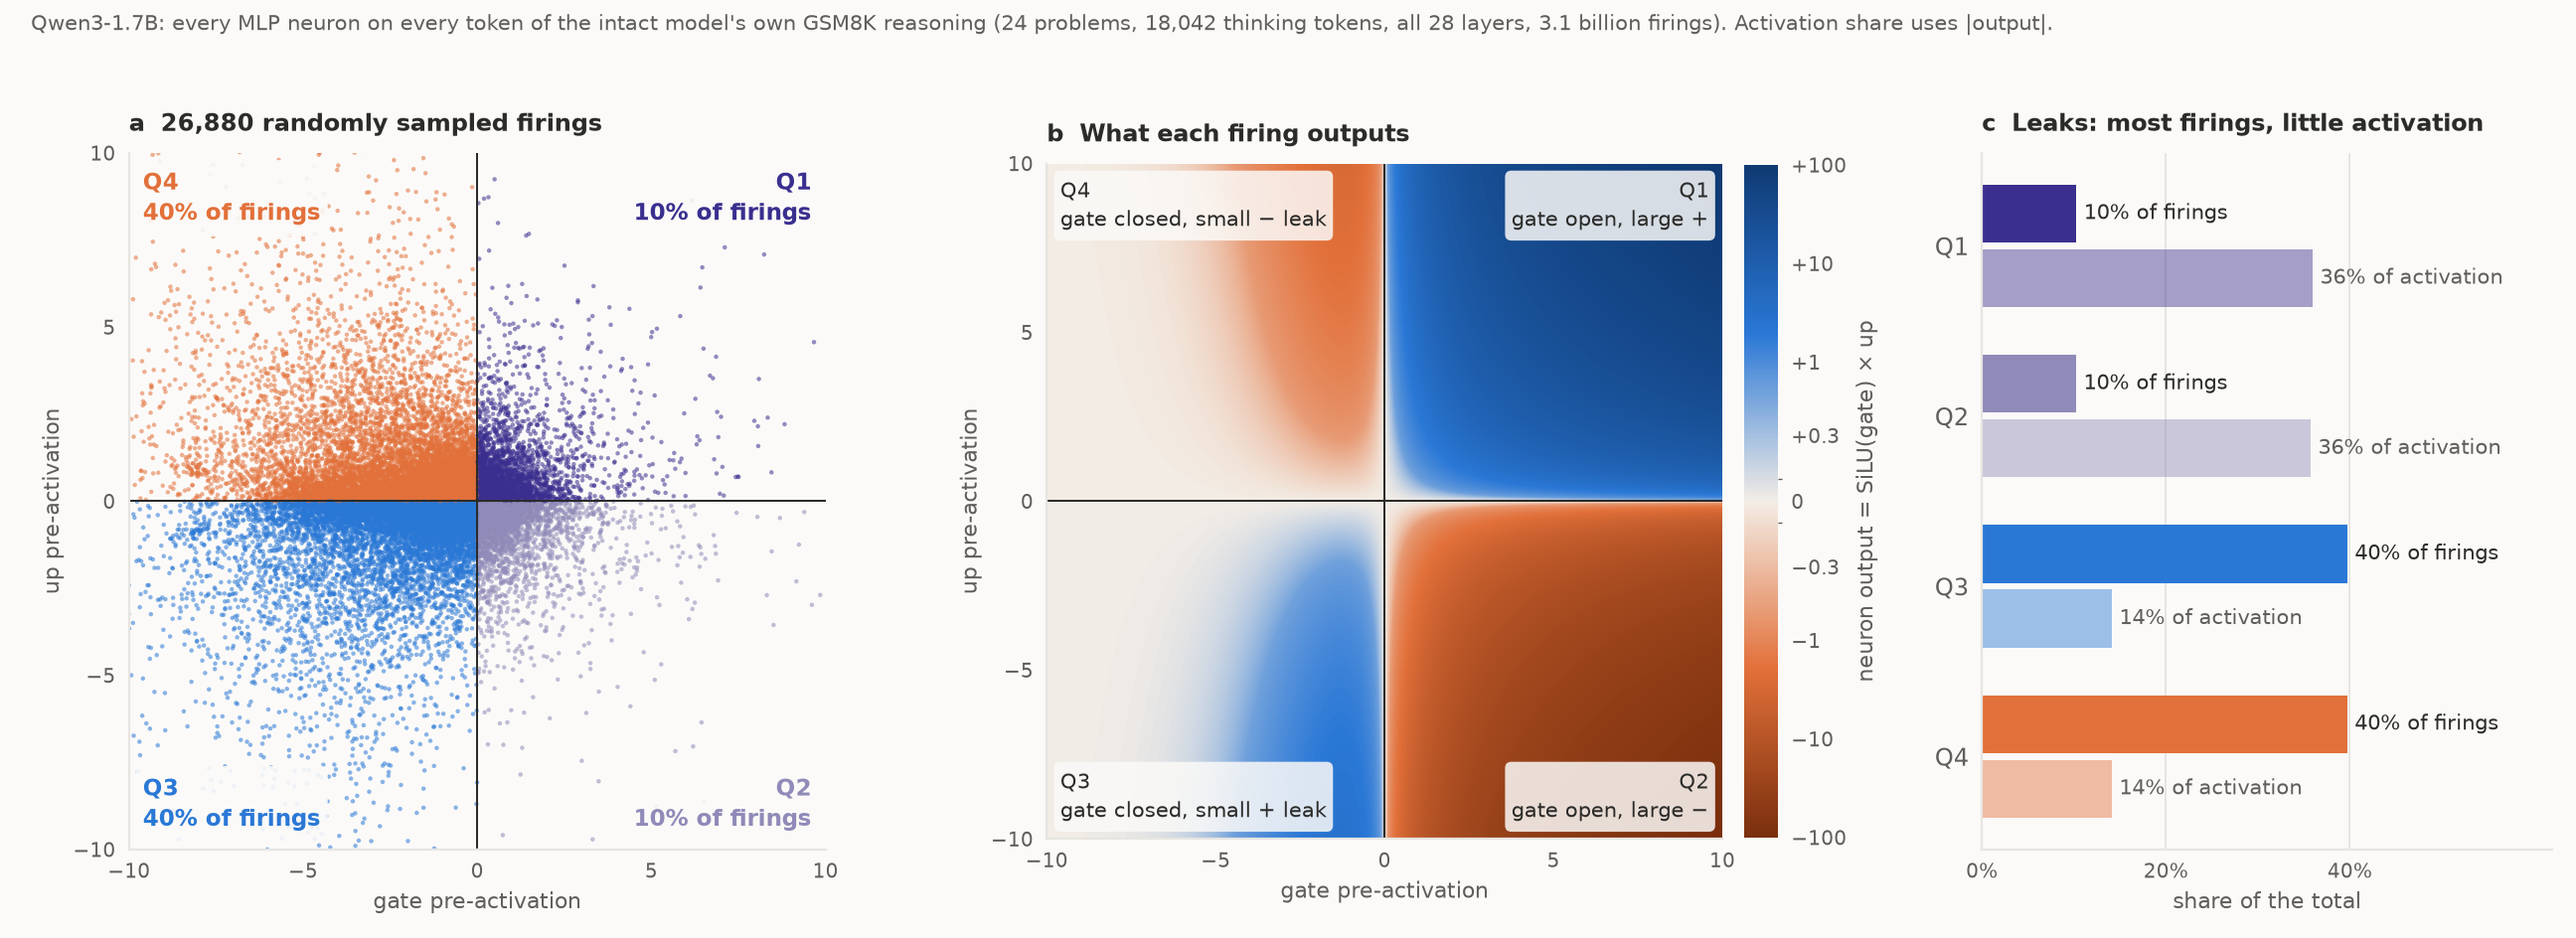
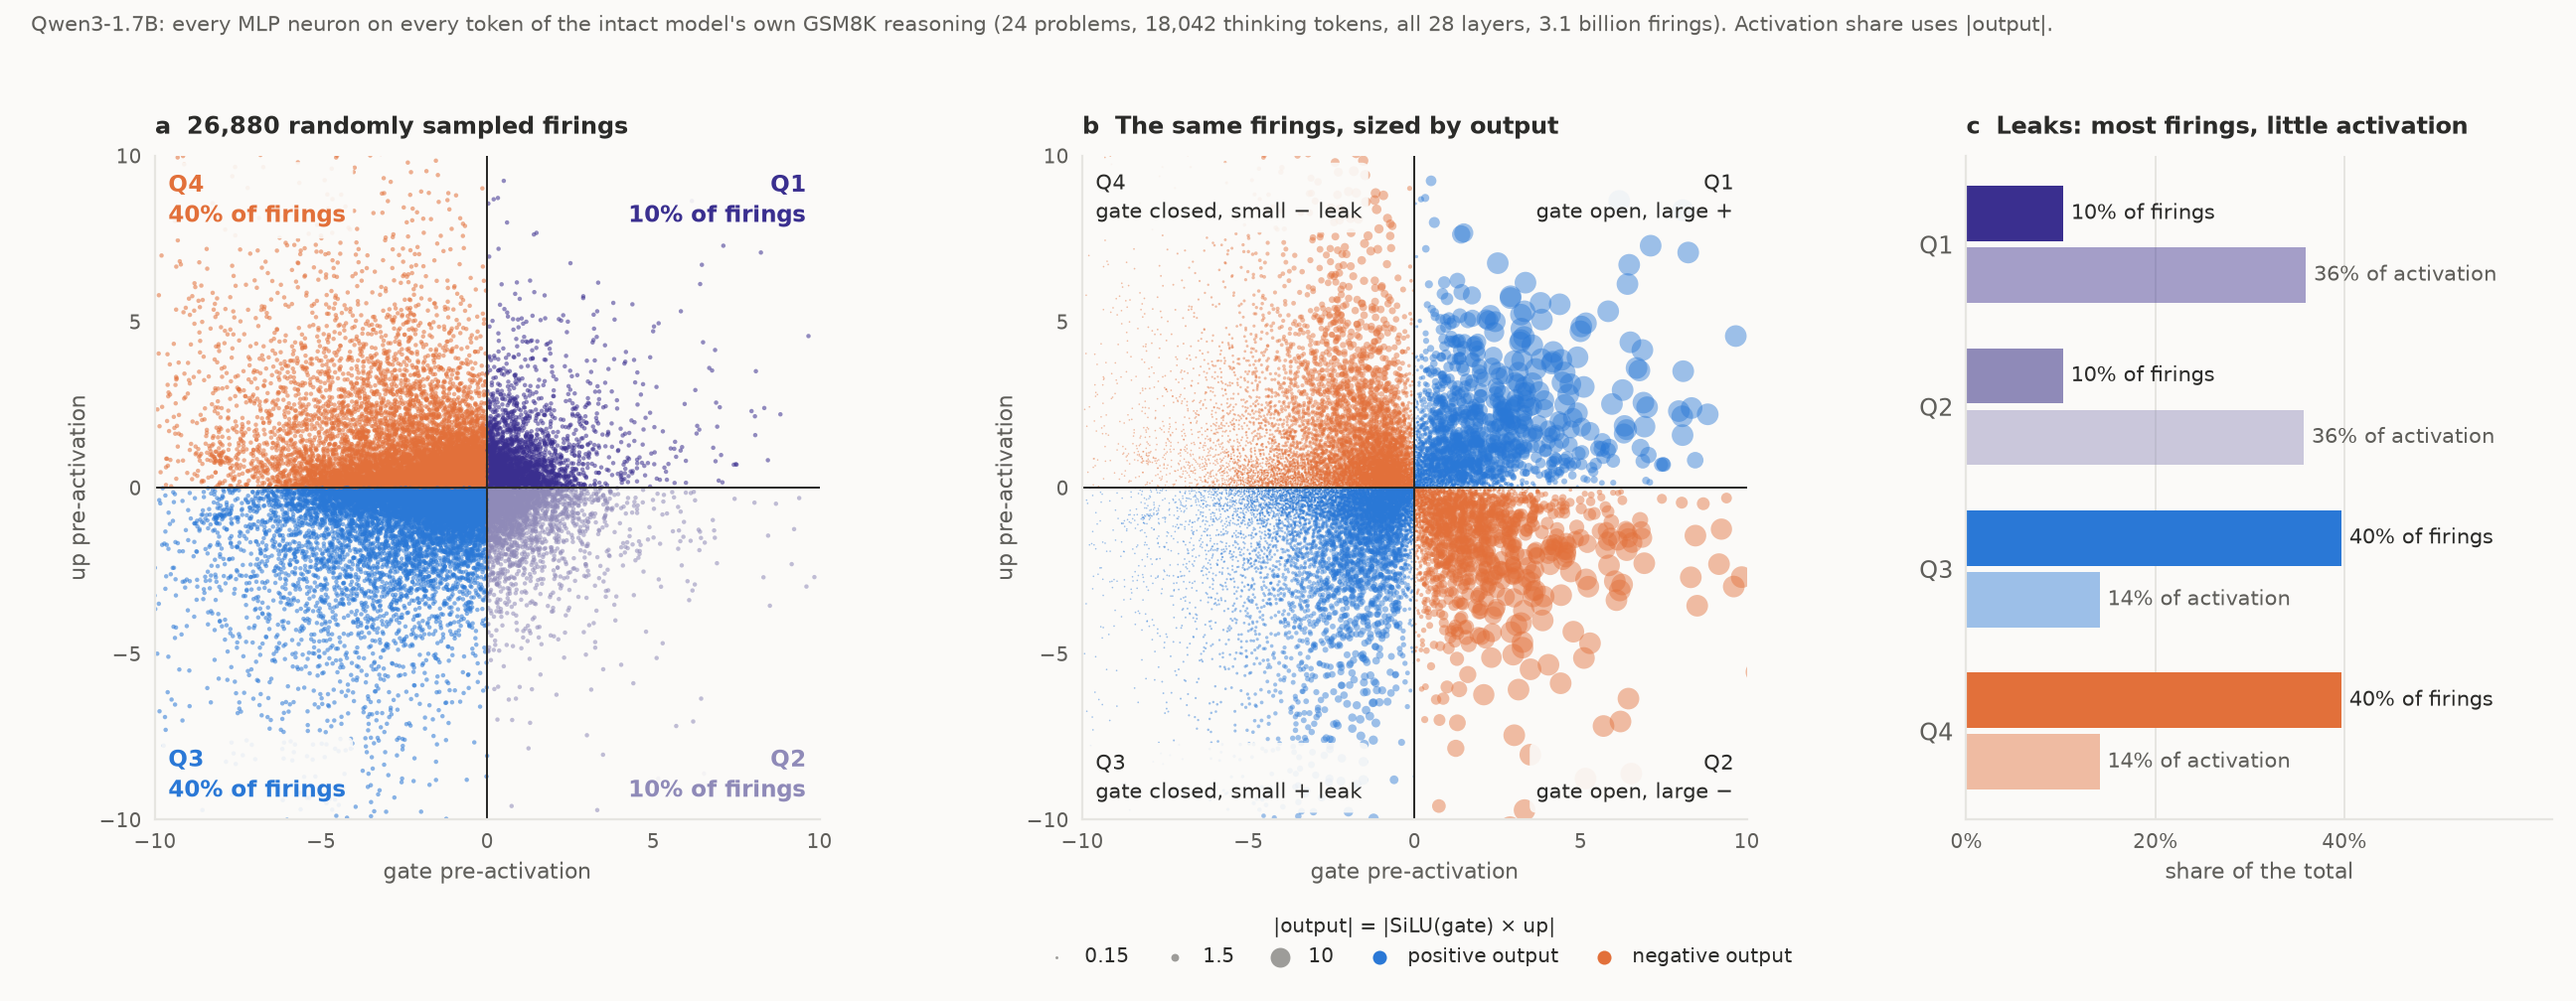
fig9: panel b as dots sized by output instead of a heatmap

diff --git a/src/figures/fig_quadrant_map.py b/src/figures/fig_quadrant_map.py
@@ -6,8 +6,8 @@ and up. Its output is act_fn(gate) * up. The signs of gate and up put the
 firing in one of four quadrants (Q1..Q4).
 
 Panel a: a random sample of firings, one dot each, coloured by quadrant.
-Panel b: the output each point of the plane produces, on a scale that keeps
-         the small leaks visible.
+Panel b: the same sampled firings, dot area proportional to |output|,
+         colour by the sign of the output.
 Panel c: each quadrant's share of firings and of total |activation|.
 
 The text is the intact model's own GSM8K reasoning (prompt + thinking block of
@@ -130,7 +130,7 @@ CORNER = {"q1": (VIEW - PAD, VIEW - PAD, "right", "top"), "q2": (VIEW - PAD, -VI
 NOTE = {"q1": "gate open, large +", "q2": "gate open, large −", "q3": "gate closed, small + leak",
         "q4": "gate closed, small − leak"}
 
-fig, (a1, a2, a3) = plt.subplots(1, 3, figsize=(16.2, 5.9), gridspec_kw={"width_ratios": [1, 1, 0.78]})
+fig, (a1, a2, a3) = plt.subplots(1, 3, figsize=(16.2, 6.3), gridspec_kw={"width_ratios": [1, 1, 0.78]})
 
 cols = {"q1": "#3a2f8f", "q2": "#8f8ab8", "q3": style.Q3_COL, "q4": style.Q4_COL}
 sg, su = d["sample_g"], d["sample_u"]
@@ -146,20 +146,29 @@ for k, q in enumerate(QUADS):
             fontweight="bold", linespacing=1.35, zorder=4,
             bbox=dict(boxstyle="round,pad=0.3", fc=style.SURFACE, ec="none", alpha=0.9))
 
-axis = np.linspace(-VIEW, VIEW, 801)
-G, U = np.meshgrid(axis, axis)
 assert "SiLU" in str(d["act_name"])
-out = G / (1 + np.exp(-G)) * U  # SiLU(gate) * up
-im2 = a2.imshow(out, origin="lower", extent=(-VIEW, VIEW, -VIEW, VIEW), cmap=diverge,
-                norm=SymLogNorm(linthresh=0.5, vmin=-100, vmax=100), aspect="equal")
-cb2 = fig.colorbar(im2, ax=a2, fraction=0.046, pad=0.03, ticks=[-100, -10, -1, -0.3, 0, 0.3, 1, 10, 100])
-cb2.ax.set_yticklabels(["−100", "−10", "−1", "−0.3", "0", "+0.3", "+1", "+10", "+100"])
-cb2.set_label("neuron output = SiLU(gate) × up"); cb2.outline.set_visible(False)
-a2.set_title("b  What each firing outputs")
+so = sg / (1 + np.exp(-sg)) * su  # each sampled firing's output, SiLU(gate) * up
+SIZE_PER_UNIT, SIZE_MIN, OUT_CAP = 8.0, 0.5, 12.0  # dot AREA is proportional to |output|, capped at OUT_CAP
+
+
+def dot_size(v):
+    return SIZE_MIN + SIZE_PER_UNIT * np.minimum(np.abs(v), OUT_CAP)
+
+
+big_first = np.argsort(-np.abs(so))  # draw large dots first so the small leaks stay visible on top
+a2.scatter(sg[big_first], su[big_first], s=dot_size(so[big_first]),
+           c=np.where(so[big_first] > 0, style.Q3_COL, style.Q4_COL), alpha=0.45, linewidths=0, zorder=2, rasterized=True)
+a2.set_aspect("equal")
+a2.set_title("b  The same firings, sized by output")
 for q in QUADS:
     x, y, ha, va = CORNER[q]
-    a2.text(x, y, f"{q.upper()}\n{NOTE[q]}", ha=ha, va=va, fontsize=9.6, color=style.INK, linespacing=1.35,
-            bbox=dict(boxstyle="round,pad=0.3", fc=style.SURFACE, ec="none", alpha=0.85))
+    a2.text(x, y, f"{q.upper()}\n{NOTE[q]}", ha=ha, va=va, fontsize=9.6, color=style.INK, linespacing=1.35, zorder=4,
+            bbox=dict(boxstyle="round,pad=0.3", fc=style.SURFACE, ec="none", alpha=0.9))
+handles = [plt.scatter([], [], s=dot_size(v), color=style.INK2, alpha=0.6, linewidths=0, label=f"{v:g}") for v in (0.15, 1.5, 10)]
+handles += [plt.scatter([], [], s=40, color=c, linewidths=0, label=l)
+            for c, l in ((style.Q3_COL, "positive output"), (style.Q4_COL, "negative output"))]
+a2.legend(handles=handles, title="|output| = |SiLU(gate) × up|", loc="upper center", bbox_to_anchor=(0.5, -0.12),
+          ncol=5, columnspacing=1.3, handletextpad=0.4, title_fontsize=9)
 for ax in (a1, a2):
     ax.axhline(0, color=style.INK, lw=0.9); ax.axvline(0, color=style.INK, lw=0.9)
     ax.set_xlim(-VIEW, VIEW); ax.set_ylim(-VIEW, VIEW); ax.grid(False)
@@ -182,7 +191,7 @@ fig.suptitle(f"{args.model.split('/')[-1]}: every MLP neuron on every token of t
              f"({int(d['n_traces'])} problems, {int(d['n_tokens']):,} thinking tokens, all {counts.shape[0]} layers, "
              f"{total / 1e9:.1f} billion firings). Activation share uses |output|.",
              fontsize=9.5, color=style.INK2, x=0.012, ha="left", y=0.985)
-fig.tight_layout(rect=(0, 0, 1, 0.955), w_pad=2.5)
+fig.tight_layout(rect=(0, 0.07, 1, 0.955), w_pad=2.5)
 out_path = folder / "figures" / "fig9_quadrant_map.png"
 fig.savefig(out_path, dpi=160)
 print("wrote", out_path)
